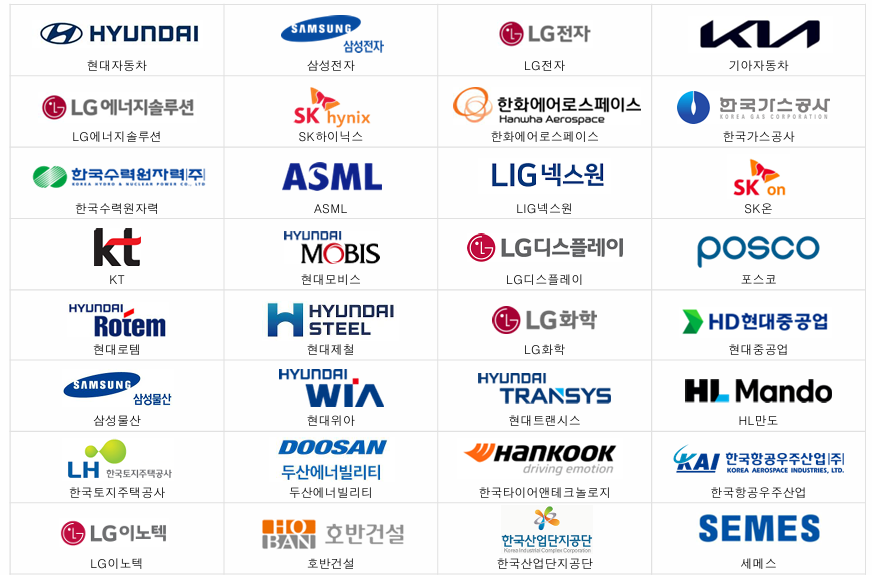
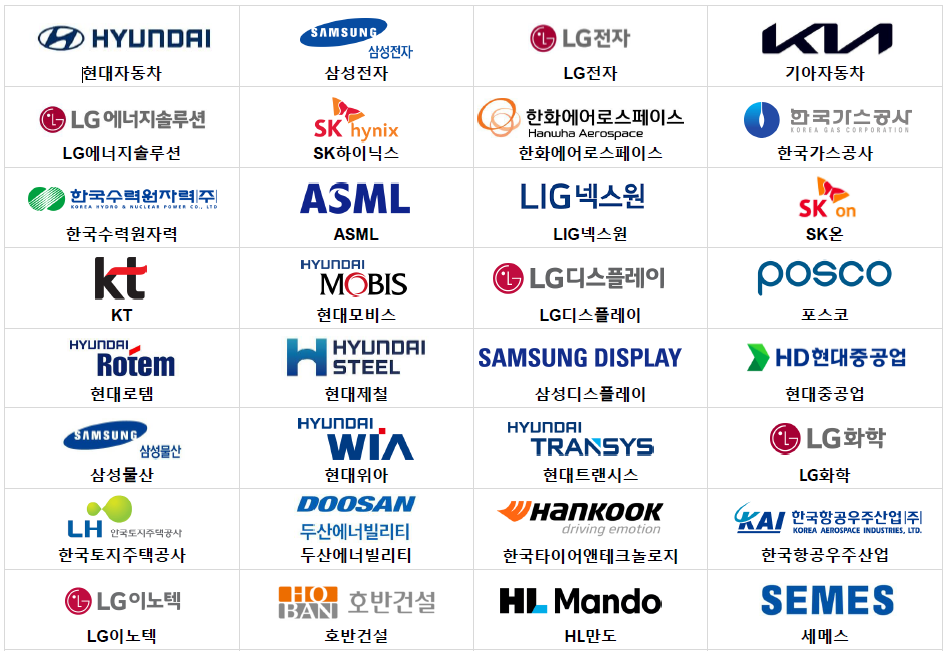
111

diff --git a/brief/broshure.html b/brief/broshure.html
@@ -1,0 +1,204 @@
+<!DOCTYPE html>
+<html lang="ko">
+<head>
+<meta charset="utf-8" />
+<meta name="viewport" content="width=device-width, initial-scale=1" />
+<title>기계공학부 브로셔</title>
+<style>
+  :root{
+    --ink:#0d2b52;          /* 네이비 */
+    --ink-2:#163a6e;
+    --gold:#f2c04d;         /* 골드 포인트 */
+    --bg:#f7f7f9;           /* 은은한 배경 */
+    --text:#1f2937;         /* 본문 */
+    --muted:#6b7280;        /* 보조 텍스트 */
+    --radius:18px;
+  }
+
+  /* A4 인쇄 레이아웃 */
+  @page{ size:A4; margin:14mm; }
+  html,body{ height:100%; }
+  body{
+    margin:0; background:var(--bg); color:var(--text);
+    font-family: "Pretendard","Noto Sans KR","Apple SD Gothic Neo","맑은 고딕",sans-serif;
+    line-height:1.5;
+  }
+  .page{
+    width:210mm; min-height:297mm; margin:0 auto; background:#fff;
+    box-shadow:0 10px 30px rgba(0,0,0,.08);
+    display:flex; flex-direction:column; gap:18px; padding:18mm;
+  }
+  @media (max-width: 840px){
+    .page{ width:100%; min-height:auto; box-shadow:none; padding:20px; }
+  }
+  @media print{
+    body{ background:#fff; }
+    .page{ box-shadow:none; padding:0; }
+    .no-print{ display:none !important; }
+    a{ color:inherit; text-decoration:none; }
+  }
+
+  /* 공통 요소 */
+  .badge{
+    display:inline-block; padding:6px 12px; border-radius:999px;
+    background:var(--ink); color:#fff; font-weight:700; letter-spacing:.02em;
+    font-size:12px;
+  }
+  .headline{
+    font-weight:800; color:#fff; font-size:26px; line-height:1.35; margin:0;
+  }
+  .kicker{ color:#cfe1ff; font-size:13px; letter-spacing:.04em; margin-bottom:10px; }
+  .section{ border:1px solid #e5e7eb; border-radius:var(--radius); padding:18px; }
+  .section h2{ margin:0 0 10px; font-size:18px; color:var(--ink); }
+  .muted{ color:var(--muted); }
+  .grid{ display:grid; gap:14px; }
+  .grid-2{ grid-template-columns:1fr 1fr; }
+  .grid-3{ grid-template-columns:repeat(3,1fr); }
+  .pill{ background:#f4f7ff; color:var(--ink-2); padding:8px 12px; border-radius:999px; display:inline-flex; gap:8px; align-items:center; }
+  .stat{ display:flex; align-items:center; gap:10px; padding:10px 12px; border:1px dashed #e5e7eb; border-radius:14px; }
+  .stat b{ color:var(--ink); font-size:18px; }
+
+  /* 히어로 */
+  .hero{
+    background:linear-gradient(135deg, var(--ink) 0%, #0b2343 100%);
+    color:#fff; border-radius:var(--radius); padding:22px;
+    display:grid; gap:14px; align-items:center;
+    grid-template-columns:1.2fr .8fr;
+  }
+  .hero p{ margin:0; font-size:14px; color:#e7eefb; }
+  .hero .cta{
+    display:flex; gap:10px; flex-wrap:wrap; margin-top:8px;
+  }
+  .btn{
+    border:0; padding:10px 14px; border-radius:12px; font-weight:700; cursor:pointer;
+    background:#fff; color:var(--ink);
+  }
+  .btn.secondary{ background:rgba(255,255,255,.15); color:#fff; border:1px solid rgba(255,255,255,.3); }
+
+  /* 이미지 플레이스홀더 */
+  .media{
+    width:100%; aspect-ratio: 16 / 11; border-radius:12px;
+    background:conic-gradient(from 90deg at 50% 50%, #eaf1ff, #f8fbff 30%, #edf3ff);
+    display:grid; place-items:center; border:1px solid #e5e7eb; overflow:hidden;
+  }
+  .media small{ color:#6b7ea6; }
+  .media img{ width:100%; height:100%; object-fit:contain; display:block; }
+
+  /* 로고 그리드 */
+  .logos{
+    display:grid; grid-template-columns:repeat(6,1fr); gap:10px;
+  }
+  .logo{
+    border:1px solid #edf0f5; border-radius:12px; padding:10px; height:60px; background:#fff;
+    display:grid; place-items:center;
+  }
+  .logo img{ max-width:90%; max-height:80%; object-fit:contain; }
+
+  /* 하단 바 */
+  .footer{
+    display:flex; justify-content:space-between; align-items:center; gap:10px;
+    background:#0f2546; color:#dbe6ff; border-radius:14px; padding:12px 16px;
+  }
+  .footer .mark{ font-weight:900; color:#fff; }
+  .divider{ height:1px; background:#eef1f5; }
+
+  /* 반응형 보정 */
+  @media (max-width: 980px){
+    .hero{ grid-template-columns:1fr; }
+    .grid-2{ grid-template-columns:1fr; }
+    .logos{ grid-template-columns:repeat(3,1fr); }
+  }
+</style>
+</head>
+<body>
+
+<div class="page">
+  <!-- HERO -->
+  <section class="hero">
+    <div>
+      <div class="kicker">경북대학교 기계공학부</div>
+      <h1 class="headline">“기계공학부 졸업생은 국가 주력산업 전반의<br/>기술 경쟁력을 이끄는 핵심 인재로 성장합니다.”</h1>
+      <p>자동차 · 반도체/전기전자 · 에너지(발전/수소/배터리) · 항공/방산 · 로봇/정밀기계 · 조선/해양/중공업 진출.
+         공공기관/연구소 및 대학원 진학까지 다양한 진로를 지원합니다.</p>
+      <div class="cta">
+        <span class="badge">취업률 71.4% (졸업생 167명, 2022)</span>
+        <span class="pill"><b>대기업</b> 비중 66%</span>
+      </div>
+    </div>
+    <!-- 히어로 이미지(학교 사진/전공 이미지) -->
+    <div class="media">
+      <!-- 교체: <img src="hero.jpg" alt="학과 대표 이미지"> -->
+      <small>이미지 넣기 (hero)</small>
+    </div>
+  </section>
+
+  <!-- 데이터로 보는 취업 -->
+  <section class="section">
+    <h2>데이터로 보는 취업분야 · 취업현황</h2>
+    <div class="grid grid-2">
+      <div>
+        <div class="media" style="aspect-ratio: 1 / 1;">
+       <img src="https://raw.githubusercontent.com/knu-me/overview/main/images/brief/under_emp1.png" style="max-width:100%; height:auto; object-fit:contain;" />
+          <small>취업분야 차트 이미지</small>
+        </div>
+        <div class="grid" style="margin-top:10px;">
+          <div class="stat"><b>반도체/전자 34%</b> <span class="muted">자동차 31%, 에너지 14% …</span></div>
+        </div>
+      </div>
+      <div>
+        <div class="media" style="aspect-ratio: 1 / 1;">
+          <!-- 교체: <img src="status-pie.png" alt="취업현황 파이차트"> -->
+          <small>취업현황 차트 이미지</small>
+        </div>
+        <div class="grid" style="margin-top:10px;">
+          <div class="stat"><b>대기업 66%</b> <span class="muted">중견 11%, 중소 11%, 공공/공기업 9%…</span></div>
+        </div>
+      </div>
+    </div>
+  </section>
+
+  <!-- 주요 취업처 -->
+  <section class="section" style="padding:16px 16px 12px;">
+    <h2>경북대학교 기계공학부 졸업생의 주요 <span style="color:var(--gold)">취업처</span></h2>
+    <div class="grid" aria-label="주요 취업처 로고">
+      <!-- 각 칸에 로고 이미지 넣기 -->
+       <img src="https://raw.githubusercontent.com/knu-me/overview/main/images/brief/company.png" style="max-width:100%; height:auto; object-fit:contain;" />
+    </div>
+  </section>
+
+  <!-- 학과 강점/지원 -->
+  <section class="section">
+    <h2>왜 경북대 기계공학부인가?</h2>
+    <div class="grid grid-3">
+      <div class="stat" style="border-style:solid;">
+        <b>산업맞춤 커리큘럼</b>
+        <span class="muted">자동차·반도체·에너지 등 트랙별 실무 프로젝트</span>
+      </div>
+      <div class="stat" style="border-style:solid;">
+        <b>연구·진학 연계</b>
+        <span class="muted">국책과제·대학원 진학 멘토링</span>
+      </div>
+      <div class="stat" style="border-style:solid;">
+        <b>커리어 지원</b>
+        <span class="muted">현장실습·캡스톤·기업연계 채용설명회</span>
+      </div>
+    </div>
+  </section>
+
+  <div class="divider"></div>
+
+  <!-- 연락처/CTA -->
+  <section class="footer">
+    <div>
+      <div class="mark">경북대학교 기계공학부</div>
+      <div class="muted">입학·진로 상담: 053-xxx-xxxx · mech@knu.ac.kr · 대구광역시 북구 대학로 ○○</div>
+    </div>
+    <div class="no-print">
+      <a class="btn" href="#" onclick="window.print()">A4로 인쇄</a>
+      <a class="btn secondary" href="#apply">입학 안내</a>
+    </div>
+  </section>
+</div>
+
+</body>
+</html>
